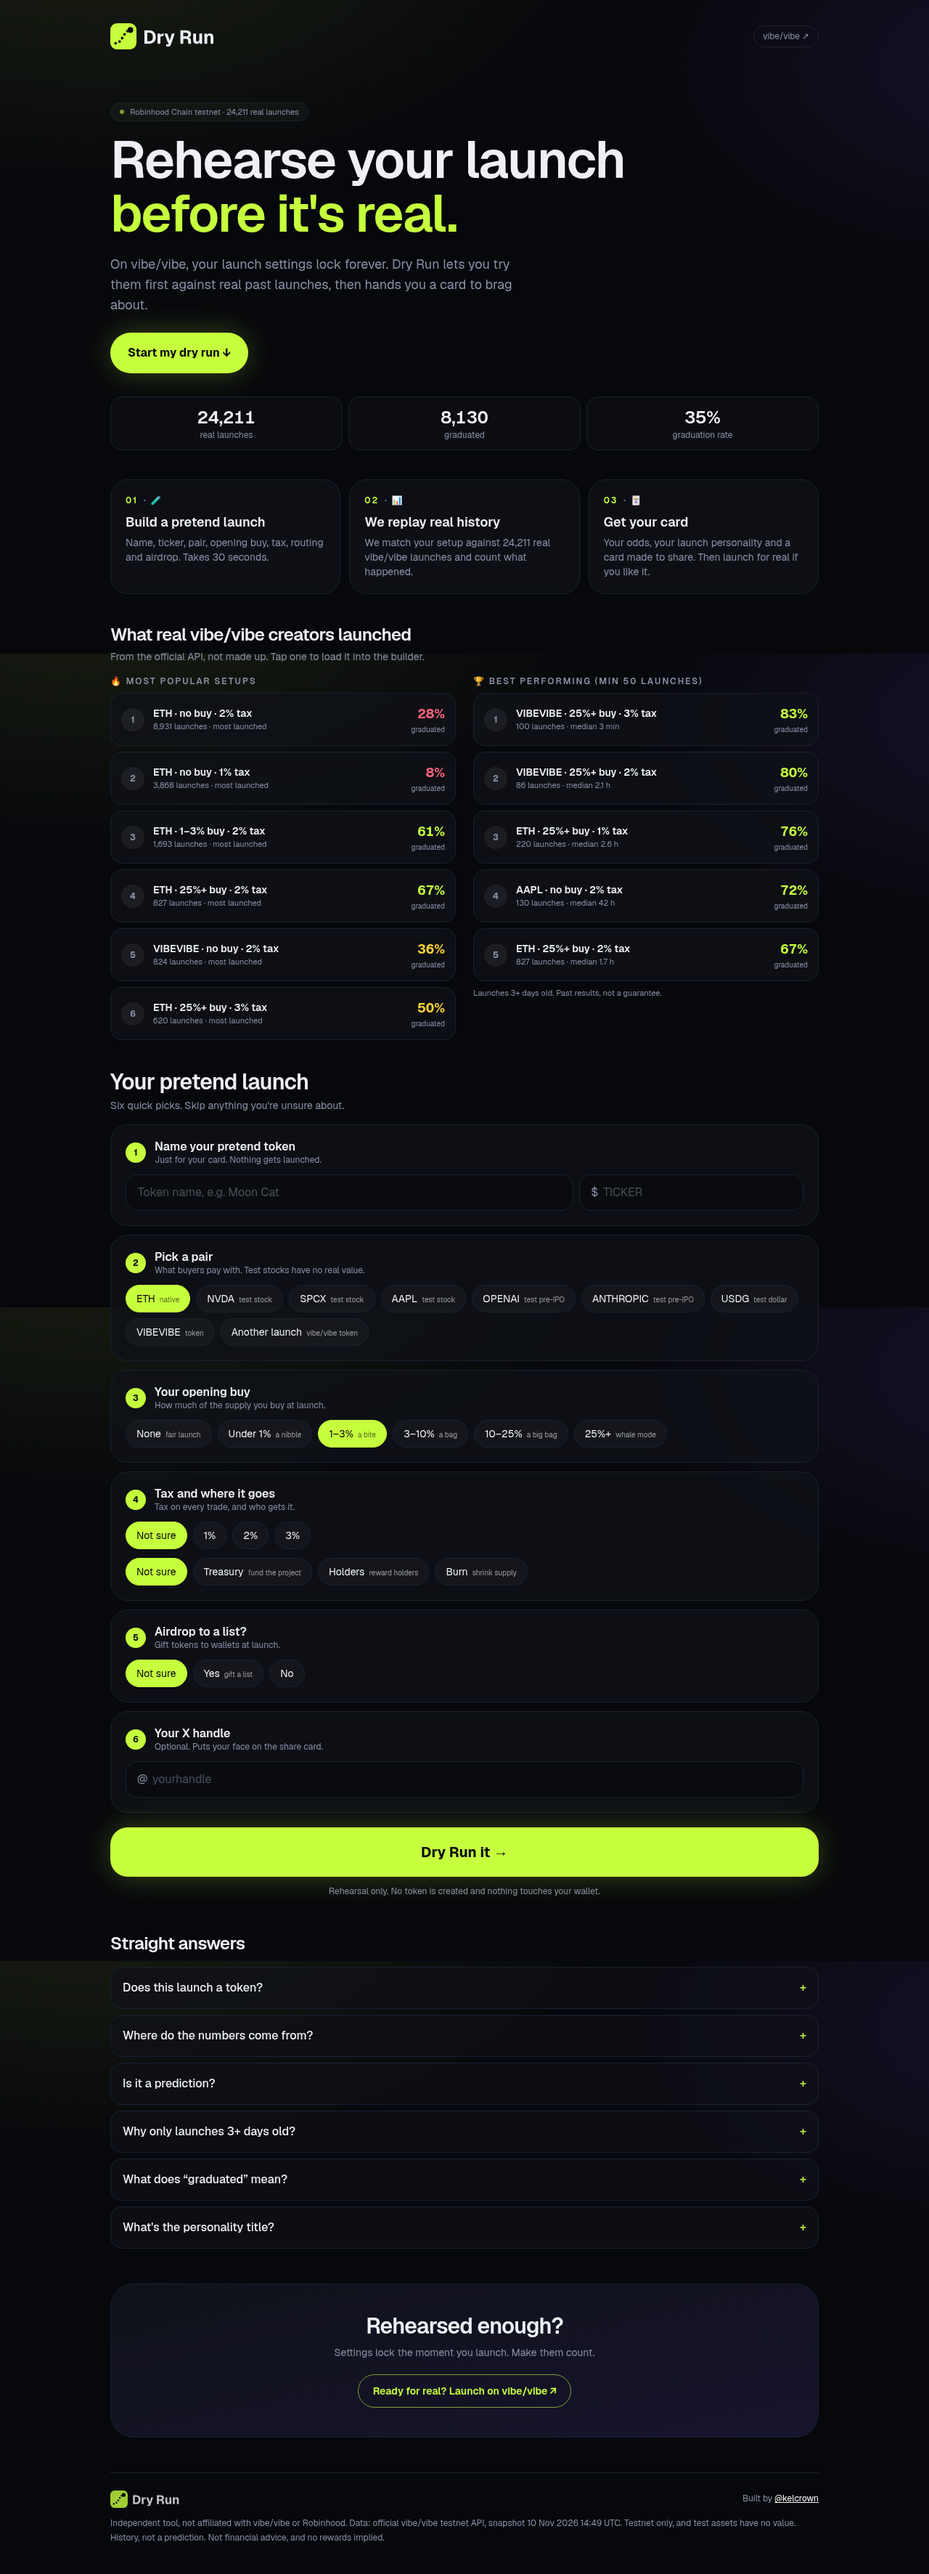
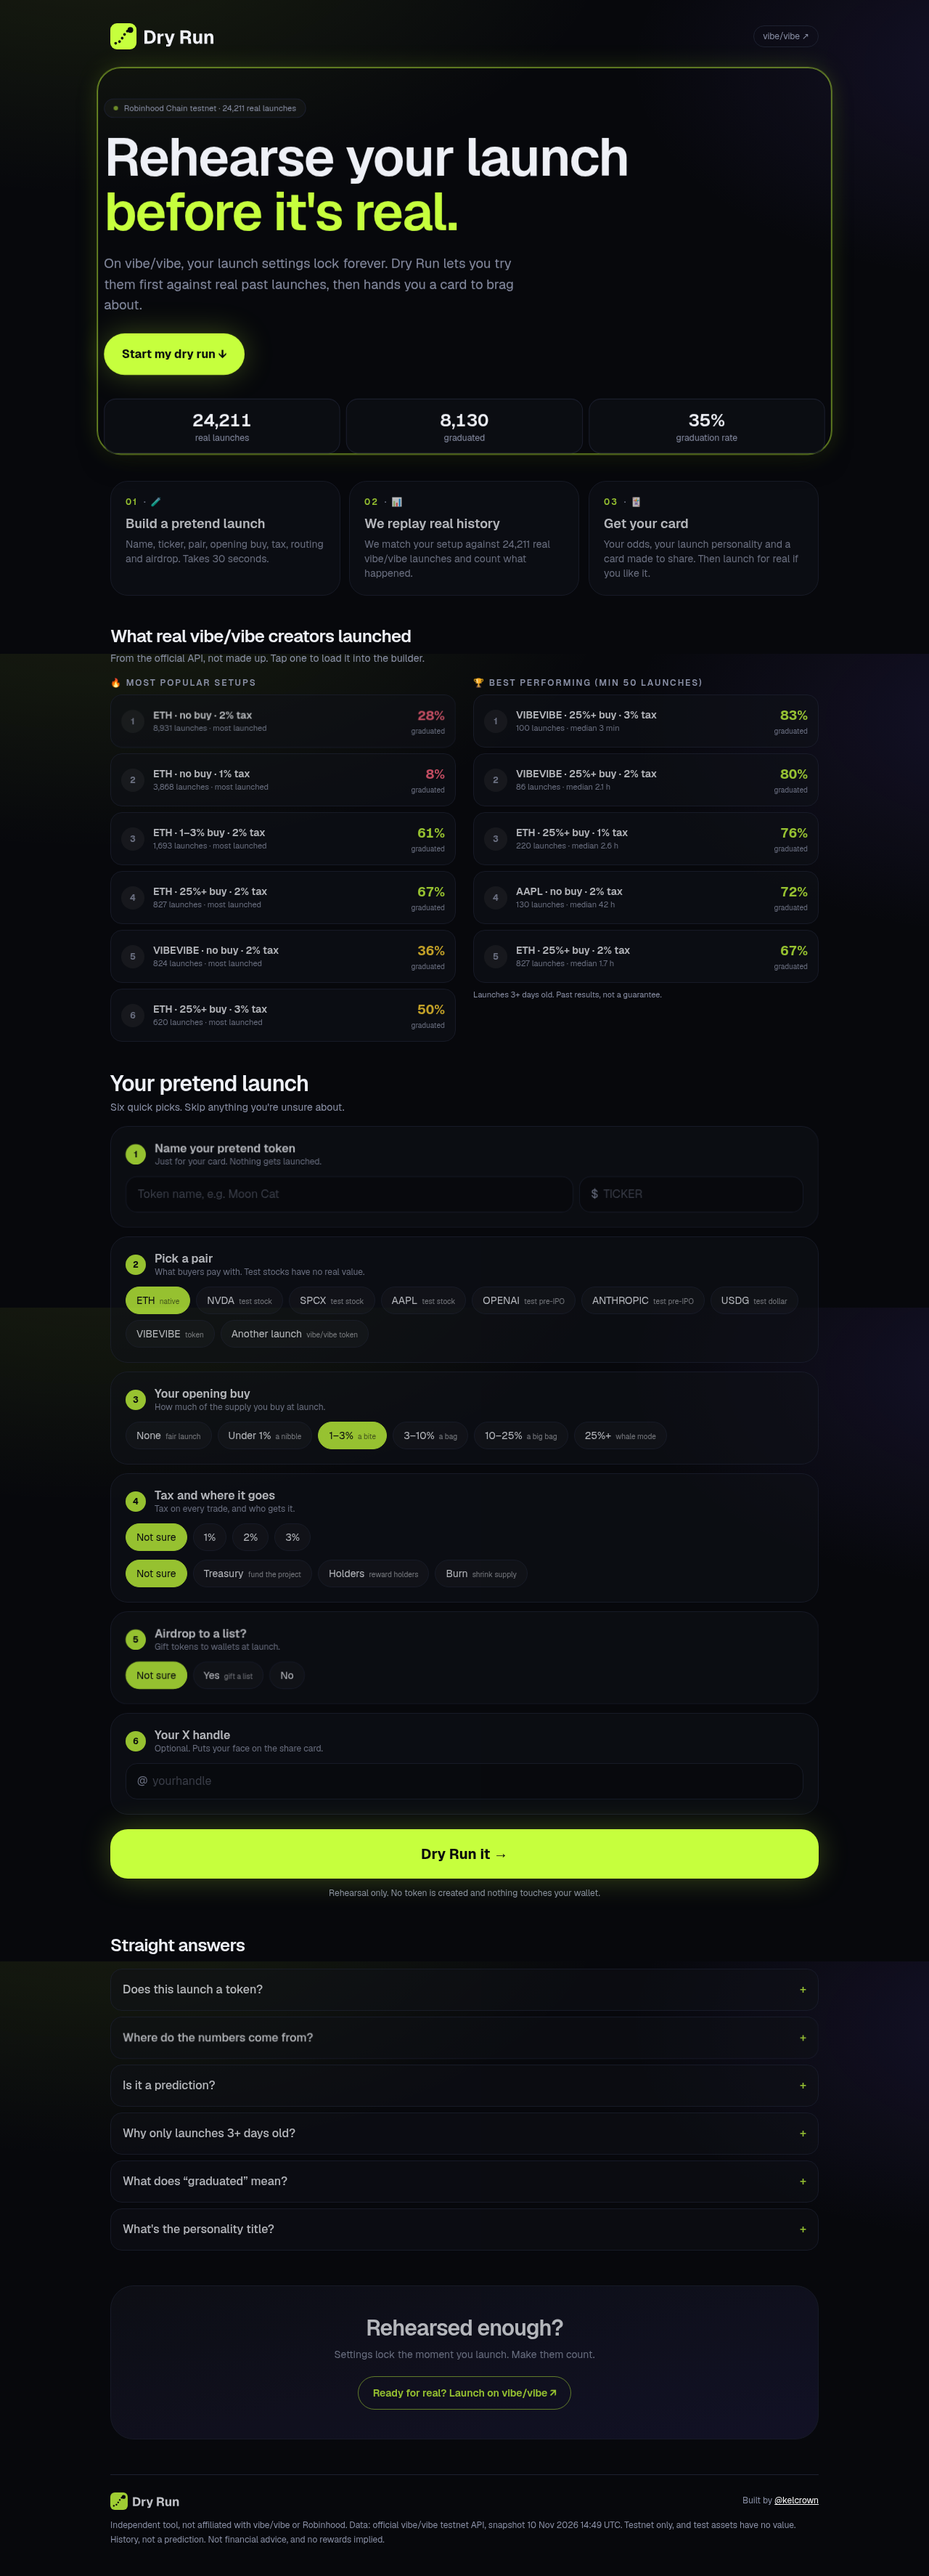
v2.1: scroll focus effect, reveal-on-scroll, press feedback

diff --git a/src/app/page.tsx b/src/app/page.tsx
@@ -1,6 +1,7 @@
 import type { Metadata } from "next";
 import Link from "next/link";
 import Builder from "@/components/Builder";
+import FocusFx from "@/components/FocusFx";
 import Reveal from "@/components/Reveal";
 import ShareBar from "@/components/ShareBar";
 import { LOGO_LOCKUP } from "@/lib/brand";
@@ -53,7 +54,7 @@ const setupHref = (x: SetupStat, extra = "") => `/?${new URLSearchParams({ pair:
 
 function SetupRow({ x, rank, badge }: { x: SetupStat; rank: number; badge: string }) {
   return (
-    <Link href={setupHref(x, "&pre=1#build")} className="flex items-center gap-3 rounded-2xl border border-line bg-panel/80 p-3.5 transition hover:border-lime/50 active:scale-[0.99]">
+    <Link data-focus href={setupHref(x, "&pre=1#build")} className="flex items-center gap-3 rounded-2xl border border-line bg-panel/80 p-3.5 transition hover:border-lime/50 active:scale-[0.99]">
       <span className="grid h-8 w-8 shrink-0 place-items-center rounded-full bg-white/[0.06] text-xs font-bold text-mute">{rank}</span>
       <div className="min-w-0 flex-1">
         <div className="truncate text-sm font-semibold">{setupName(x)}</div>
@@ -75,7 +76,7 @@ function LaunchForReal({ className = "" }: { className?: string }) {
       href={VIBEVIBE_SITE}
       target="_blank"
       rel="noopener noreferrer"
-      className={`inline-flex items-center justify-center gap-2 rounded-full border border-lime/60 px-5 py-3 text-sm font-semibold text-lime transition hover:bg-lime hover:text-ink ${className}`}
+      className={`press inline-flex items-center justify-center gap-2 rounded-full border border-lime/60 px-5 py-3 text-sm font-semibold text-lime transition hover:bg-lime hover:text-ink ${className}`}
     >
       Ready for real? Launch on vibe/vibe ↗
     </a>
@@ -119,7 +120,7 @@ export default async function Home({ searchParams }: Props) {
 
   const result = ran && (
     <section id="result" className="scroll-mt-4">
-      <div className="relative overflow-hidden rounded-[2rem] border border-lime/25 bg-gradient-to-b from-[#121626] to-panel p-5 sm:p-8">
+      <div data-focus className="relative overflow-hidden rounded-[2rem] border border-lime/25 bg-gradient-to-b from-[#121626] to-panel p-5 sm:p-8">
         <div className="pointer-events-none absolute -right-20 -top-20 h-64 w-64 rounded-full bg-lime/10 blur-3xl" />
         <div className="flex items-center gap-3">
           {who.handle ? (
@@ -209,13 +210,13 @@ export default async function Home({ searchParams }: Props) {
         </p>
       </div>
 
-      <div className="mt-4 rounded-3xl border border-dashed border-lime/30 p-5 text-center">
+      <div data-focus className="mt-4 rounded-3xl border border-dashed border-lime/30 p-5 text-center">
         <div className="text-sm text-mute">Liked your dry run?</div>
         <LaunchForReal className="mt-3 w-full sm:w-auto" />
       </div>
 
       {top && (
-        <div className="mt-4 rounded-3xl border border-line bg-panel/80 p-5 sm:p-7">
+        <div data-focus className="mt-4 rounded-3xl border border-line bg-panel/80 p-5 sm:p-7">
           <h3 className="font-semibold">Compare · best {pairLabel(r.query.pair)} setup</h3>
           <p className="mt-1 text-xs text-mute">Highest graduation rate for this pair among setups with {BEST_MIN}+ real launches (pair + opening buy + tax).</p>
           {sameAsTop ? (
@@ -246,7 +247,7 @@ export default async function Home({ searchParams }: Props) {
               </div>
               <Link
                 href={`${setupHref(top)}${persona ? `&${persona}` : ""}#result`}
-                className="mt-5 flex w-full items-center justify-center rounded-full bg-lime px-5 py-3 text-sm font-bold text-ink transition active:scale-95"
+                className="press mt-5 flex w-full items-center justify-center rounded-full bg-lime px-5 py-3 text-sm font-bold text-ink transition active:scale-95"
               >
                 Try that setup →
               </Link>
@@ -256,7 +257,7 @@ export default async function Home({ searchParams }: Props) {
       )}
 
       {r.tweaks.length > 1 && (
-        <div className="mt-4 rounded-3xl border border-line bg-panel/80 p-5 sm:p-7">
+        <div data-focus className="mt-4 rounded-3xl border border-line bg-panel/80 p-5 sm:p-7">
           <h3 className="font-semibold">Opening buy vs. graduation · {pairLabel(r.query.pair)} pair</h3>
           <div className="mt-4 space-y-2.5">
             {r.tweaks.map((t) => (
@@ -289,7 +290,7 @@ export default async function Home({ searchParams }: Props) {
           <h3 className="mb-3 font-semibold">Real launches like yours</h3>
           <div className="grid gap-2.5 sm:grid-cols-2 lg:grid-cols-3">
             {r.examples.map((e) => (
-              <a key={e.token} href={e.url} target="_blank" rel="noopener noreferrer" className="group rounded-2xl border border-line bg-panel/80 p-4 transition hover:border-lime/50">
+              <a data-focus key={e.token} href={e.url} target="_blank" rel="noopener noreferrer" className="group rounded-2xl border border-line bg-panel/80 p-4 transition hover:border-lime/50">
                 <div className="flex items-center justify-between gap-3">
                   <div className="min-w-0">
                     <div className="truncate font-semibold group-hover:text-lime">{e.name || e.symbol}</div>
@@ -321,7 +322,7 @@ export default async function Home({ searchParams }: Props) {
         ["📊", "We replay real history", `We match your setup against ${g.launches.toLocaleString("en-US")} real vibe/vibe launches and count what happened.`],
         ["🃏", "Get your card", "Your odds, your launch personality and a card made to share. Then launch for real if you like it."],
       ].map(([icon, t, d], i) => (
-        <div key={t} className="rounded-3xl border border-line bg-panel/80 p-5">
+        <div data-focus key={t} className="rounded-3xl border border-line bg-panel/80 p-5">
           <div className="flex items-center gap-2 text-xs font-semibold uppercase tracking-[0.16em] text-mute">
             <span className="text-lime">0{i + 1}</span> · {icon}
           </div>
@@ -344,7 +345,7 @@ export default async function Home({ searchParams }: Props) {
         </a>
       </header>
 
-      <section className={ran ? "mb-6" : "mb-10 pt-4 sm:pt-10"}>
+      <section data-focus className={`rounded-[2rem] border border-transparent ${ran ? "mb-6" : "-mx-2 mb-10 px-2 pt-4 sm:pt-10"}`}>
         <div className="mb-4 inline-flex items-center gap-2 rounded-full border border-line bg-white/[0.03] px-3 py-1 text-[11px] text-mute">
           <span className="h-1.5 w-1.5 animate-pulse rounded-full bg-lime" /> Robinhood Chain testnet · {g.launches.toLocaleString("en-US")} real launches
         </div>
@@ -360,7 +361,7 @@ export default async function Home({ searchParams }: Props) {
               brag about.
             </p>
             <div className="mt-6 flex flex-col gap-3 sm:flex-row">
-              <a href="#build" className="rounded-full bg-lime px-6 py-4 text-center text-base font-bold text-ink shadow-[0_0_40px_rgba(198,255,61,0.25)] transition active:scale-95">
+              <a href="#build" className="press rounded-full bg-lime px-6 py-4 text-center text-base font-bold text-ink shadow-[0_0_40px_rgba(198,255,61,0.25)] transition active:scale-95">
                 Start my dry run ↓
               </a>
             </div>
@@ -422,7 +423,7 @@ export default async function Home({ searchParams }: Props) {
         <h2 className="mb-4 text-2xl font-semibold tracking-tight">Straight answers</h2>
         <div className="space-y-2">
           {FAQ.map(([qq, a]) => (
-            <details key={qq} className="group rounded-2xl border border-line bg-panel/70 p-4">
+            <details data-focus key={qq} className="group rounded-2xl border border-line bg-panel/70 p-4">
               <summary className="flex cursor-pointer list-none items-center justify-between gap-3 font-medium">
                 {qq} <span className="text-lime transition group-open:rotate-45">+</span>
               </summary>
@@ -432,12 +433,13 @@ export default async function Home({ searchParams }: Props) {
         </div>
       </section>
 
-      <section className="mt-12 rounded-[2rem] border border-line bg-gradient-to-br from-panel to-[#17142e] p-6 text-center sm:p-10">
+      <section data-focus className="mt-12 rounded-[2rem] border border-line bg-gradient-to-br from-panel to-[#17142e] p-6 text-center sm:p-10">
         <div className="text-2xl font-semibold tracking-tight sm:text-3xl">Rehearsed enough?</div>
         <p className="mt-2 text-sm text-mute">Settings lock the moment you launch. Make them count.</p>
         <LaunchForReal className="mt-5 w-full sm:w-auto" />
       </section>
 
+      <FocusFx key={`fx-${runKey}-${ran}`} />
       <footer className="mt-12 border-t border-line pt-6 text-xs leading-relaxed text-mute">
         <div className="mb-3 flex items-center justify-between">
           {/* eslint-disable-next-line @next/next/no-img-element */}

diff --git a/src/components/FocusFx.tsx b/src/components/FocusFx.tsx
@@ -1,0 +1,82 @@
+"use client";
+
+import { useEffect } from "react";
+
+/**
+ * Scroll "focus" effect: the [data-focus] block closest to the viewport centre gets
+ * data-active (scale, glow, full opacity); the rest settle back. Also handles a one-time
+ * fade/slide-up reveal (data-seen). CSS lives in globals.css under html.fx.
+ */
+export default function FocusFx() {
+  useEffect(() => {
+    const root = document.documentElement;
+    const els = Array.from(document.querySelectorAll<HTMLElement>("[data-focus]"));
+    if (!els.length) return;
+
+    // Anything already on screen counts as seen, so there's no flash on load.
+    const vh = window.innerHeight;
+    for (const el of els) {
+      const r = el.getBoundingClientRect();
+      if (r.top < vh && r.bottom > 0) el.dataset.seen = "";
+    }
+    root.classList.add("fx");
+
+    const io = new IntersectionObserver(
+      (entries) => {
+        for (const e of entries)
+          if (e.isIntersecting) {
+            (e.target as HTMLElement).dataset.seen = "";
+            io.unobserve(e.target);
+          }
+      },
+      { rootMargin: "0px 0px -8% 0px", threshold: 0.05 },
+    );
+    els.forEach((el) => el.dataset.seen === undefined && io.observe(el));
+
+    let current: HTMLElement | null = null;
+    let raf = 0;
+    const pick = () => {
+      raf = 0;
+      const mid = window.innerHeight / 2;
+      let best: HTMLElement | null = null;
+      // Keep the block being typed in active, so forms never dim mid-edit.
+      const typing = document.activeElement?.closest<HTMLElement>("[data-focus]");
+      if (typing && /INPUT|TEXTAREA/.test(document.activeElement!.tagName)) best = typing;
+      else {
+        let bestD = Infinity;
+        for (const el of els) {
+          const r = el.getBoundingClientRect();
+          if (r.bottom < 0 || r.top > window.innerHeight) continue;
+          const d = mid >= r.top && mid <= r.bottom ? 0 : Math.min(Math.abs(r.top - mid), Math.abs(r.bottom - mid));
+          // Prefer the smaller block when several contain the centre line.
+          const score = d * 10 + (d === 0 ? r.height / 1000 : 0);
+          if (score < bestD) {
+            bestD = score;
+            best = el;
+          }
+        }
+      }
+      if (best !== current) {
+        current?.removeAttribute("data-active");
+        best?.setAttribute("data-active", "");
+        current = best;
+      }
+    };
+    const onScroll = () => {
+      if (!raf) raf = requestAnimationFrame(pick);
+    };
+    pick();
+    window.addEventListener("scroll", onScroll, { passive: true });
+    window.addEventListener("resize", onScroll);
+    document.addEventListener("focusin", onScroll);
+    return () => {
+      io.disconnect();
+      cancelAnimationFrame(raf);
+      window.removeEventListener("scroll", onScroll);
+      window.removeEventListener("resize", onScroll);
+      document.removeEventListener("focusin", onScroll);
+      current?.removeAttribute("data-active");
+    };
+  }, []);
+  return null;
+}

diff --git a/src/app/globals.css b/src/app/globals.css
@@ -27,3 +27,65 @@ body {
   color: #07080c;
   border-color: #c6ff3d;
 }
+
+/* ---- Scroll focus + reveal (see components/FocusFx.tsx) ---------------- */
+html,
+body {
+  overflow-x: clip;
+}
+
+html.fx [data-focus] {
+  opacity: 0.75;
+  transform: translateY(0) scale(1);
+  transition:
+    opacity 350ms ease,
+    transform 380ms cubic-bezier(0.2, 0.7, 0.2, 1),
+    box-shadow 380ms ease,
+    border-color 380ms ease;
+  will-change: transform, opacity;
+}
+
+html.fx [data-focus][data-active] {
+  opacity: 1;
+  transform: translateY(-2px) scale(1.02);
+  border-color: rgba(198, 255, 61, 0.55);
+  box-shadow:
+    0 0 0 1px rgba(198, 255, 61, 0.35),
+    0 18px 40px -18px rgba(0, 0, 0, 0.8),
+    0 0 36px -8px rgba(198, 255, 61, 0.28);
+  position: relative;
+  z-index: 1;
+}
+
+/* Fade / slide up the first time a block scrolls in. */
+html.fx [data-focus]:not([data-seen]) {
+  opacity: 0;
+  transform: translateY(22px) scale(0.99);
+}
+
+/* Press feedback on every button and CTA. */
+button,
+.press {
+  transition-property: transform, background-color, border-color, color, opacity, filter;
+  transition-duration: 150ms;
+}
+button:active:not(:disabled),
+.press:active {
+  transform: scale(0.97);
+}
+
+@media (prefers-reduced-motion: reduce) {
+  html.fx [data-focus],
+  html.fx [data-focus][data-active],
+  html.fx [data-focus]:not([data-seen]) {
+    transform: none;
+    transition: opacity 200ms linear, box-shadow 200ms linear, border-color 200ms linear;
+  }
+  html.fx [data-focus]:not([data-seen]) {
+    opacity: 0.75;
+  }
+  button:active:not(:disabled),
+  .press:active {
+    transform: none;
+  }
+}

diff --git a/src/components/ShareBar.tsx b/src/components/ShareBar.tsx
@@ -39,7 +39,7 @@ export default function ShareBar({ shareUrl, ogUrl, tweet, filename }: { shareUr
         href={intent}
         target="_blank"
         rel="noopener noreferrer"
-        className="col-span-2 inline-flex items-center justify-center gap-2 rounded-full bg-lime px-5 py-3 text-sm font-bold text-ink transition hover:brightness-110 active:scale-95"
+        className="press col-span-2 inline-flex items-center justify-center gap-2 rounded-full bg-lime px-5 py-3 text-sm font-bold text-ink transition hover:brightness-110 active:scale-95"
       >
         <svg viewBox="0 0 24 24" className="h-4 w-4" fill="currentColor" aria-hidden>
           <path d="M18.244 2.25h3.308l-7.227 8.26 8.502 11.24H16.17l-5.214-6.817L4.99 21.75H1.68l7.73-8.835L1.254 2.25H8.08l4.713 6.231zm-1.161 17.52h1.833L7.084 4.126H5.117z" />

diff --git a/src/components/Builder.tsx b/src/components/Builder.tsx
@@ -39,7 +39,7 @@ function Chips({ opts, value, onPick }: { opts: readonly Opt[]; value: string; o
 
 function Step({ n, title, sub, children }: { n: number; title: string; sub?: string; children: React.ReactNode }) {
   return (
-    <div className="relative rounded-3xl border border-line bg-panel/80 p-5">
+    <div data-focus className="relative rounded-3xl border border-line bg-panel/80 p-5">
       <div className="mb-3 flex items-center gap-3">
         <span className="grid h-7 w-7 shrink-0 place-items-center rounded-full bg-lime text-xs font-bold text-ink">{n}</span>
         <div>
